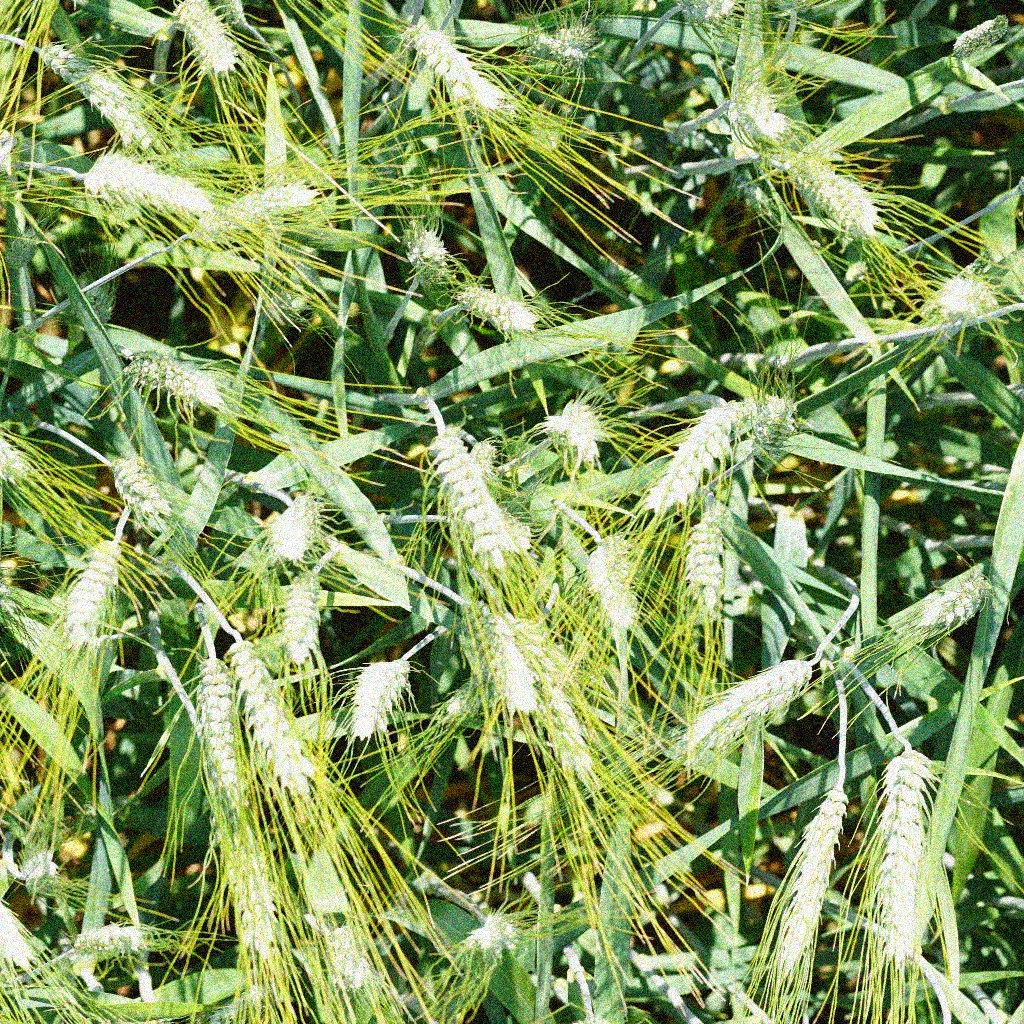
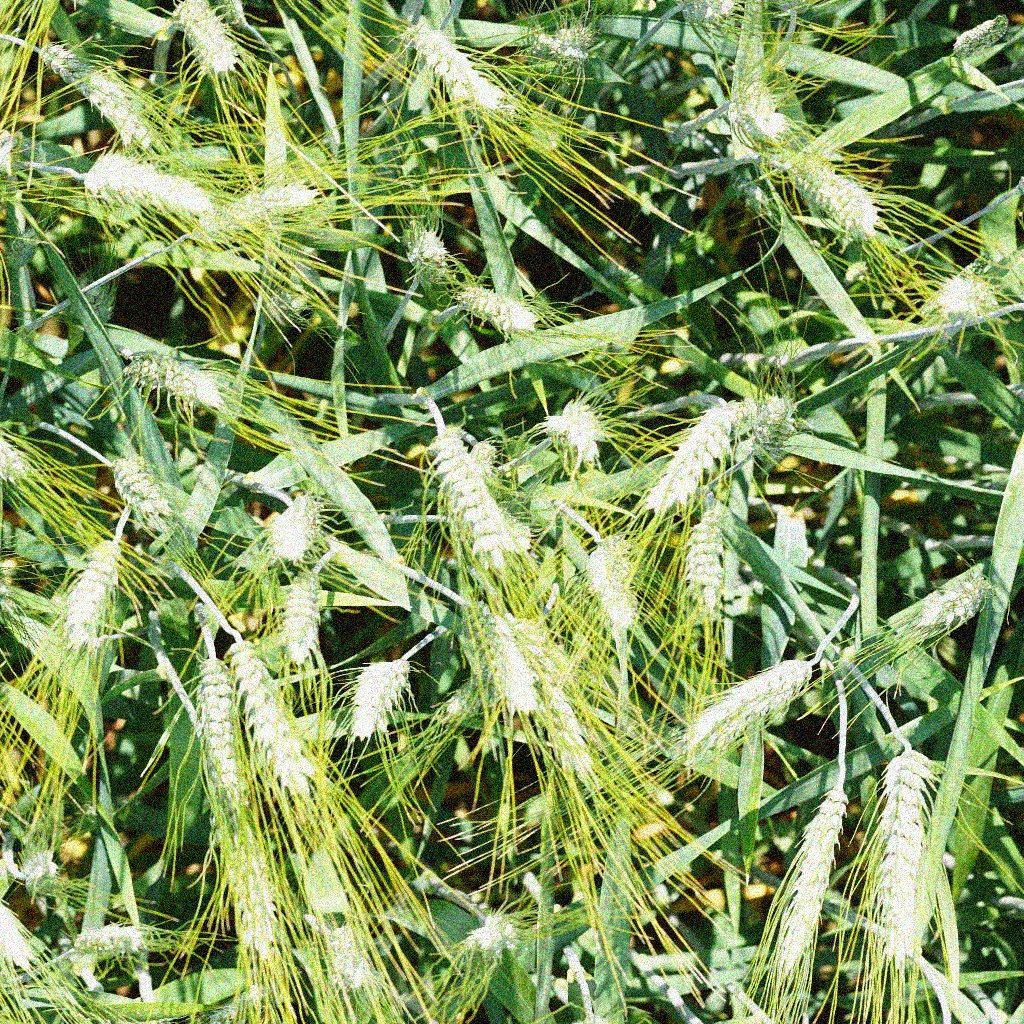
Add Sepia augmentation

diff --git a/src/discolight/augmentations/sepia.py b/src/discolight/augmentations/sepia.py
@@ -1,0 +1,41 @@
+"""An augmentation that adds sepia filter to an image."""
+import numpy as np
+from discolight.params.params import Params
+from .augmentation.types import ColorAugmentation
+from .decorators.accepts_probs import accepts_probs
+
+
+@accepts_probs
+class Sepia(ColorAugmentation):
+
+    """Returns a given image passed through the sepia filter."""
+
+    @staticmethod
+    def params():
+        """Return a Params object describing constructor parameters."""
+        return Params()
+
+    def augment_img(self, img, _bboxes):
+        """Augment an image."""
+        sepia_img = np.zeros(img.shape)
+        input_red, input_green, input_blue = (
+            np.array(img[:, :, 0]),
+            np.array(img[:, :, 1]),
+            np.array(img[:, :, 2]),
+        )
+        # Formula taken from <https://www.techrepublic.com/blog/how-do-i/
+        # how-do-i-convert-images-to-grayscale-and-sepia-tone-using-c/>
+        red = (input_red * 0.393) + (input_green * 0.769) + (input_blue *
+                                                             0.189)
+        green = (input_red * 0.349) + (input_green * 0.686) + (input_blue *
+                                                               0.168)
+        blue = (input_red * 0.272) + (input_green * 0.534) + (input_blue *
+                                                              0.131)
+
+        sepia_img[:, :, 0] = red
+        sepia_img[:, :, 1] = green
+        sepia_img[:, :, 2] = blue
+
+        sepia_img = np.clip(sepia_img, 0, 255).astype(np.uint8)
+
+        return sepia_img

diff --git a/tests/augmentations/test_sepia.py b/tests/augmentations/test_sepia.py
@@ -1,0 +1,37 @@
+import pytest
+import numpy as np
+
+from discolight.annotations import (annotations_to_numpy_array)
+from discolight.augmentations.sepia import Sepia
+
+def test_my_augmentation_sepia():
+    img =  np.array(([
+        [[ 62, 238, 229],
+         [242,  39, 182]],
+        [[167, 153,  41],
+         [130,  63, 162]]]))
+    
+    annotations = []
+    
+    # Values calculated by hand using formula from <https://www.techrepublic.com/blog/how-do-i/how-do-i-convert-images-to-grayscale-and-sepia-tone-using-c/>
+    expected_red = np.array([[250, 159], [191, 130]])
+    expected_green = np.array([[223, 141], [170, 115]])
+    expected_blue = np.array([[173, 110], [132, 90]])
+    expected_aug_img = np.zeros(img.shape, dtype=np.uint8)
+    expected_aug_img[:, :, 0] = expected_red
+    expected_aug_img[:, :, 1] = expected_green
+    expected_aug_img[:, :, 2] = expected_blue
+    
+    bboxes = annotations_to_numpy_array(annotations)
+    
+    augmentation = Sepia()
+    
+    aug_img, aug_bboxes = augmentation.augment(img.copy(), bboxes.copy())
+    
+    assert np.allclose(
+        expected_aug_img, aug_img
+    ), "Performing augmentation does not yield expected image"
+    assert np.array_equal(
+        bboxes, aug_bboxes
+    ), "Performing augmentation does not yield original augmentation"
+    

diff --git a/doc/discolight.md b/doc/discolight.md
@@ -4,7 +4,7 @@
 
 ## FourCornersCSV
 
-Loads annotations from a CSV file in the following format:
+Loads annotations from a CSV file in the following format\.
 
 image\_name, x\_min, y\_min, x\_max, y\_max, label
 
@@ -27,7 +27,7 @@ whether the bounding box coordinates are stored in a normalized format
 
 ## WidthHeightCSV
 
-Loads annotations from a CSV file in the following format:
+Loads annotations from a CSV file in the following format\.
 
 image\_name, x\_min, y\_min, width, height, label
 
@@ -54,7 +54,7 @@ whether the bounding box coordinates are stored in a normalized format
 
 ## FourCornersCSV
 
-Writes annotations to a CSV file in the following format:
+Writes annotations to a CSV file in the following format\.
 
 image\_name, x\_min, y\_min, x\_max, y\_max, label
 
@@ -77,7 +77,7 @@ whether the bounding box coordinates should be normalized before saving
 
 ## WidthHeightCSV
 
-Writes annotations to a CSV file in the following format:
+Writes annotations to a CSV file in the following format\.
 
 image\_name, x\_min, y\_min, width, height, label
 
@@ -104,9 +104,10 @@ whether the bounding box coordinates should be normalized before saving
 
 ## Directory
 
-Loads images from a directory in the filesystem\. The image name from the
-AnnotationLoader will be used to fetch a file with the same name in the
-given directory\.
+Load images from a directory in the filesystem\.
+
+The image name from the AnnotationLoader will be used to fetch a file with
+the same name in the given directory\.
 
 ### Parameters
 
@@ -126,8 +127,9 @@ The directory from which to load images
 
 ## Directory
 
-Writes images to a directory in the filesystem\. Images will be saved to a
-file with the given name in the given directory\.
+Writes images to a directory in the filesystem\.
+
+Images will be saved to a file with the given name in the given directory\.
 
 ### Parameters
 
@@ -152,7 +154,7 @@ the directory to save images to
 
 ## GaussianNoise
 
-Adds gaussian noise to the given image
+Add gaussian noise to the given image\.
 
 ### Example
 <table>
@@ -196,7 +198,7 @@ The probability that this augmentation will be applied
 
 ## GrayScale
 
-Returns a grayscale version of the given image
+Return a grayscale version of the given image\.
 
 ### Example
 <table>
@@ -230,7 +232,7 @@ The probability that this augmentation will be applied
 
 ## HorizontalFlip
 
-Horizontally flips the given image
+Horizontally flips the given image\.
 
 ### Example
 <table>
@@ -264,8 +266,9 @@ The probability that this augmentation will be applied
 
 ## RandomEraser
 
-Randomly erases a rectangular area in the given image, replacing it with
-random noise
+Randomly erase a rectangular area in the given image\.
+
+The erased area is replaced with random noise\.
 
 ### Example
 <table>
@@ -319,7 +322,7 @@ The probability that this augmentation will be applied
 
 ## RandomHSV
 
-Randomly shifts the color space of the given image
+Randomly shift the color space of the given image\.
 
 ### Example
 <table>
@@ -368,7 +371,7 @@ The probability that this augmentation will be applied
 
 ## RandomRotate
 
-Randomly rotates the given image
+Randomly rotate the given image\.
 
 ### Example
 <table>
@@ -416,7 +419,7 @@ The probability that this augmentation will be applied
 
 ## Rotate
 
-Rotates the given image
+Rotate the given image\.
 
 ### Example
 <table>
@@ -455,7 +458,7 @@ The probability that this augmentation will be applied
 
 ## SaltAndPepperNoise
 
-Adds salt and pepper or RGB noise to the given image
+Add salt and pepper or RGB noise to the given image\.
 
 ### Example
 <table>
@@ -515,7 +518,7 @@ The color of the salt
 
 ## Scale
 
-Scales the given image
+Scale the given image\.
 
 ### Example
 <table>
@@ -561,9 +564,43 @@ The probability that this augmentation will be applied
 
 
 
+## Sepia
+
+Returns a given image passed through the sepia filter\.
+
+### Example
+<table>
+<tr>
+<td style="vertical-align: bottom">
+<img src="images/Sepia-input.jpg"/>
+<br/>
+Input Image
+</td>
+<td style="vertical-align: bottom">
+<img src="images/Sepia.jpg" />
+<br/>
+Augmented Image
+</td>
+</tr>
+</table>
+
+### Parameters
+
+
+**probs** *(float)* = 1\.0<br/>
+The probability that this augmentation will be applied
+
+
+* must be between 0 and 1
+
+
+
+
+
+
 ## Sequence
 
-
+Perform a sequence of augmentations on the given image\.
 
 ### Example
 <table>
@@ -602,7 +639,7 @@ The probability that this augmentation will be applied
 
 ## Shear
 
-Horizontally shears the given image
+Horizontally shear the given image\.
 
 ### Example
 <table>
@@ -641,7 +678,7 @@ The probability that this augmentation will be applied
 
 ## Translate
 
-Translates the given image
+Translate the given image\.
 
 ### Example
 <table>
@@ -689,7 +726,7 @@ The probability that this augmentation will be applied
 
 ## VerticalFlip
 
-Vertically flips the given image
+Vertically flip the given image\.
 
 ### Example
 <table>
